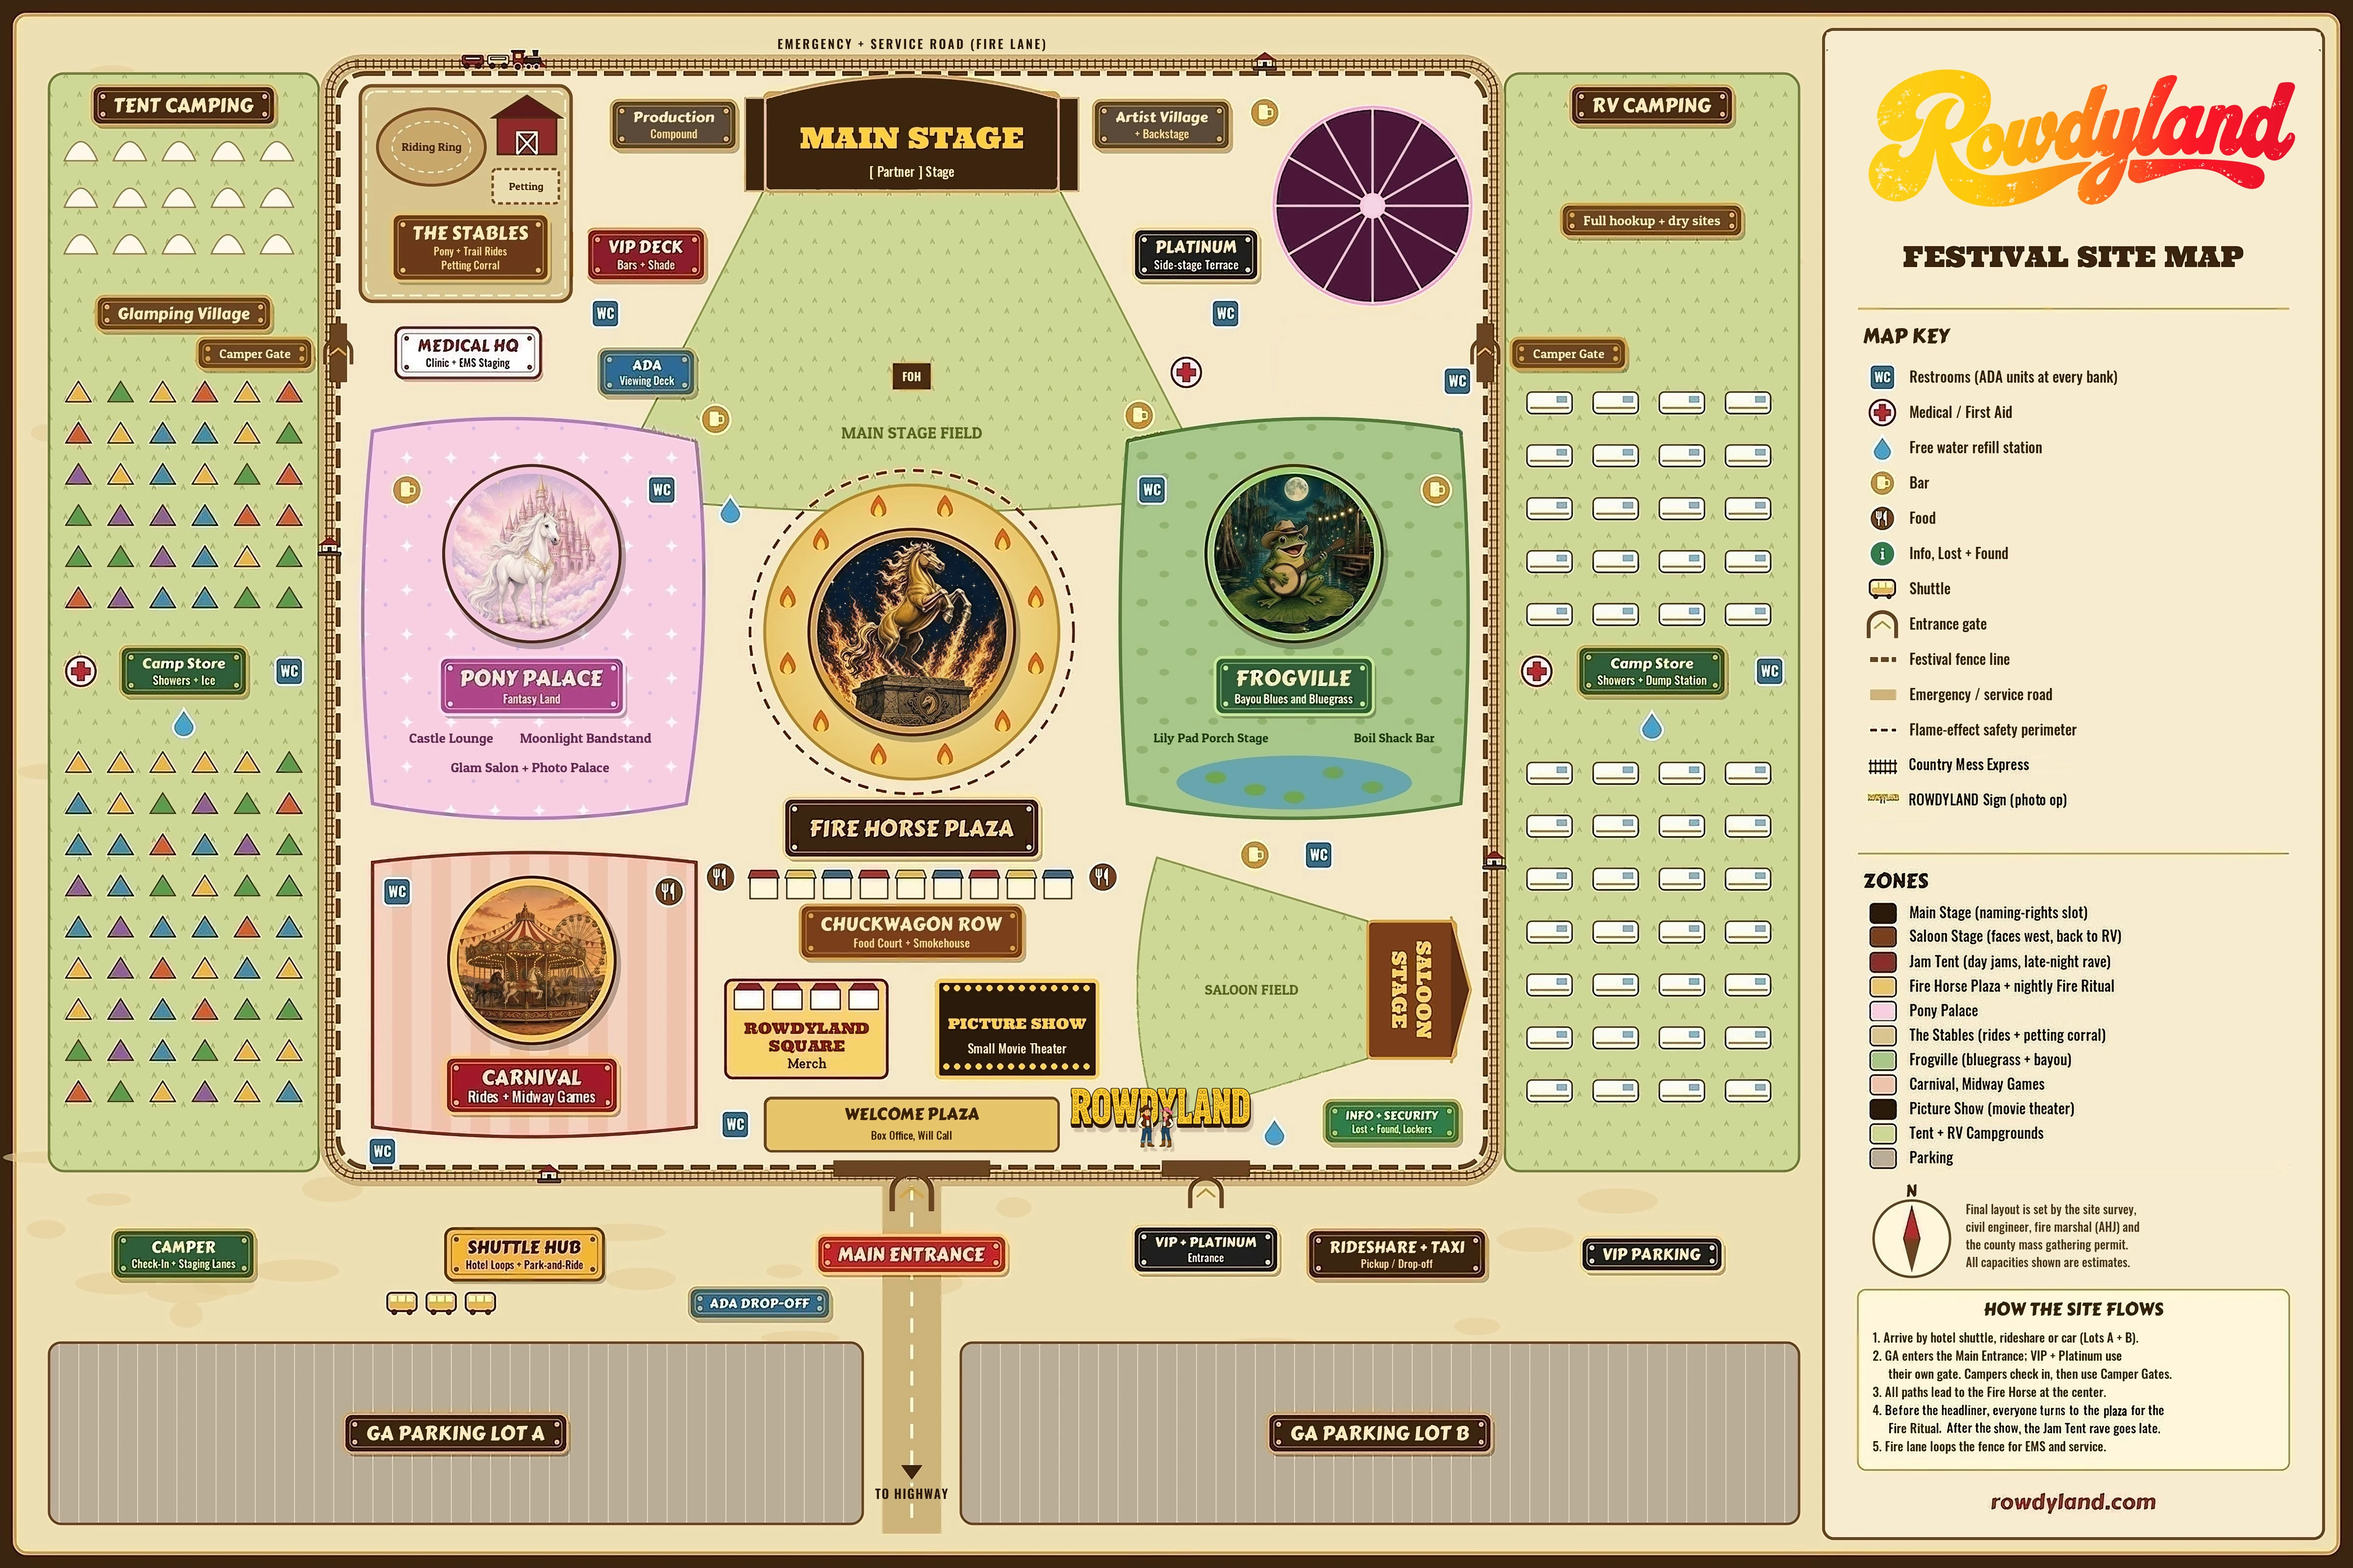
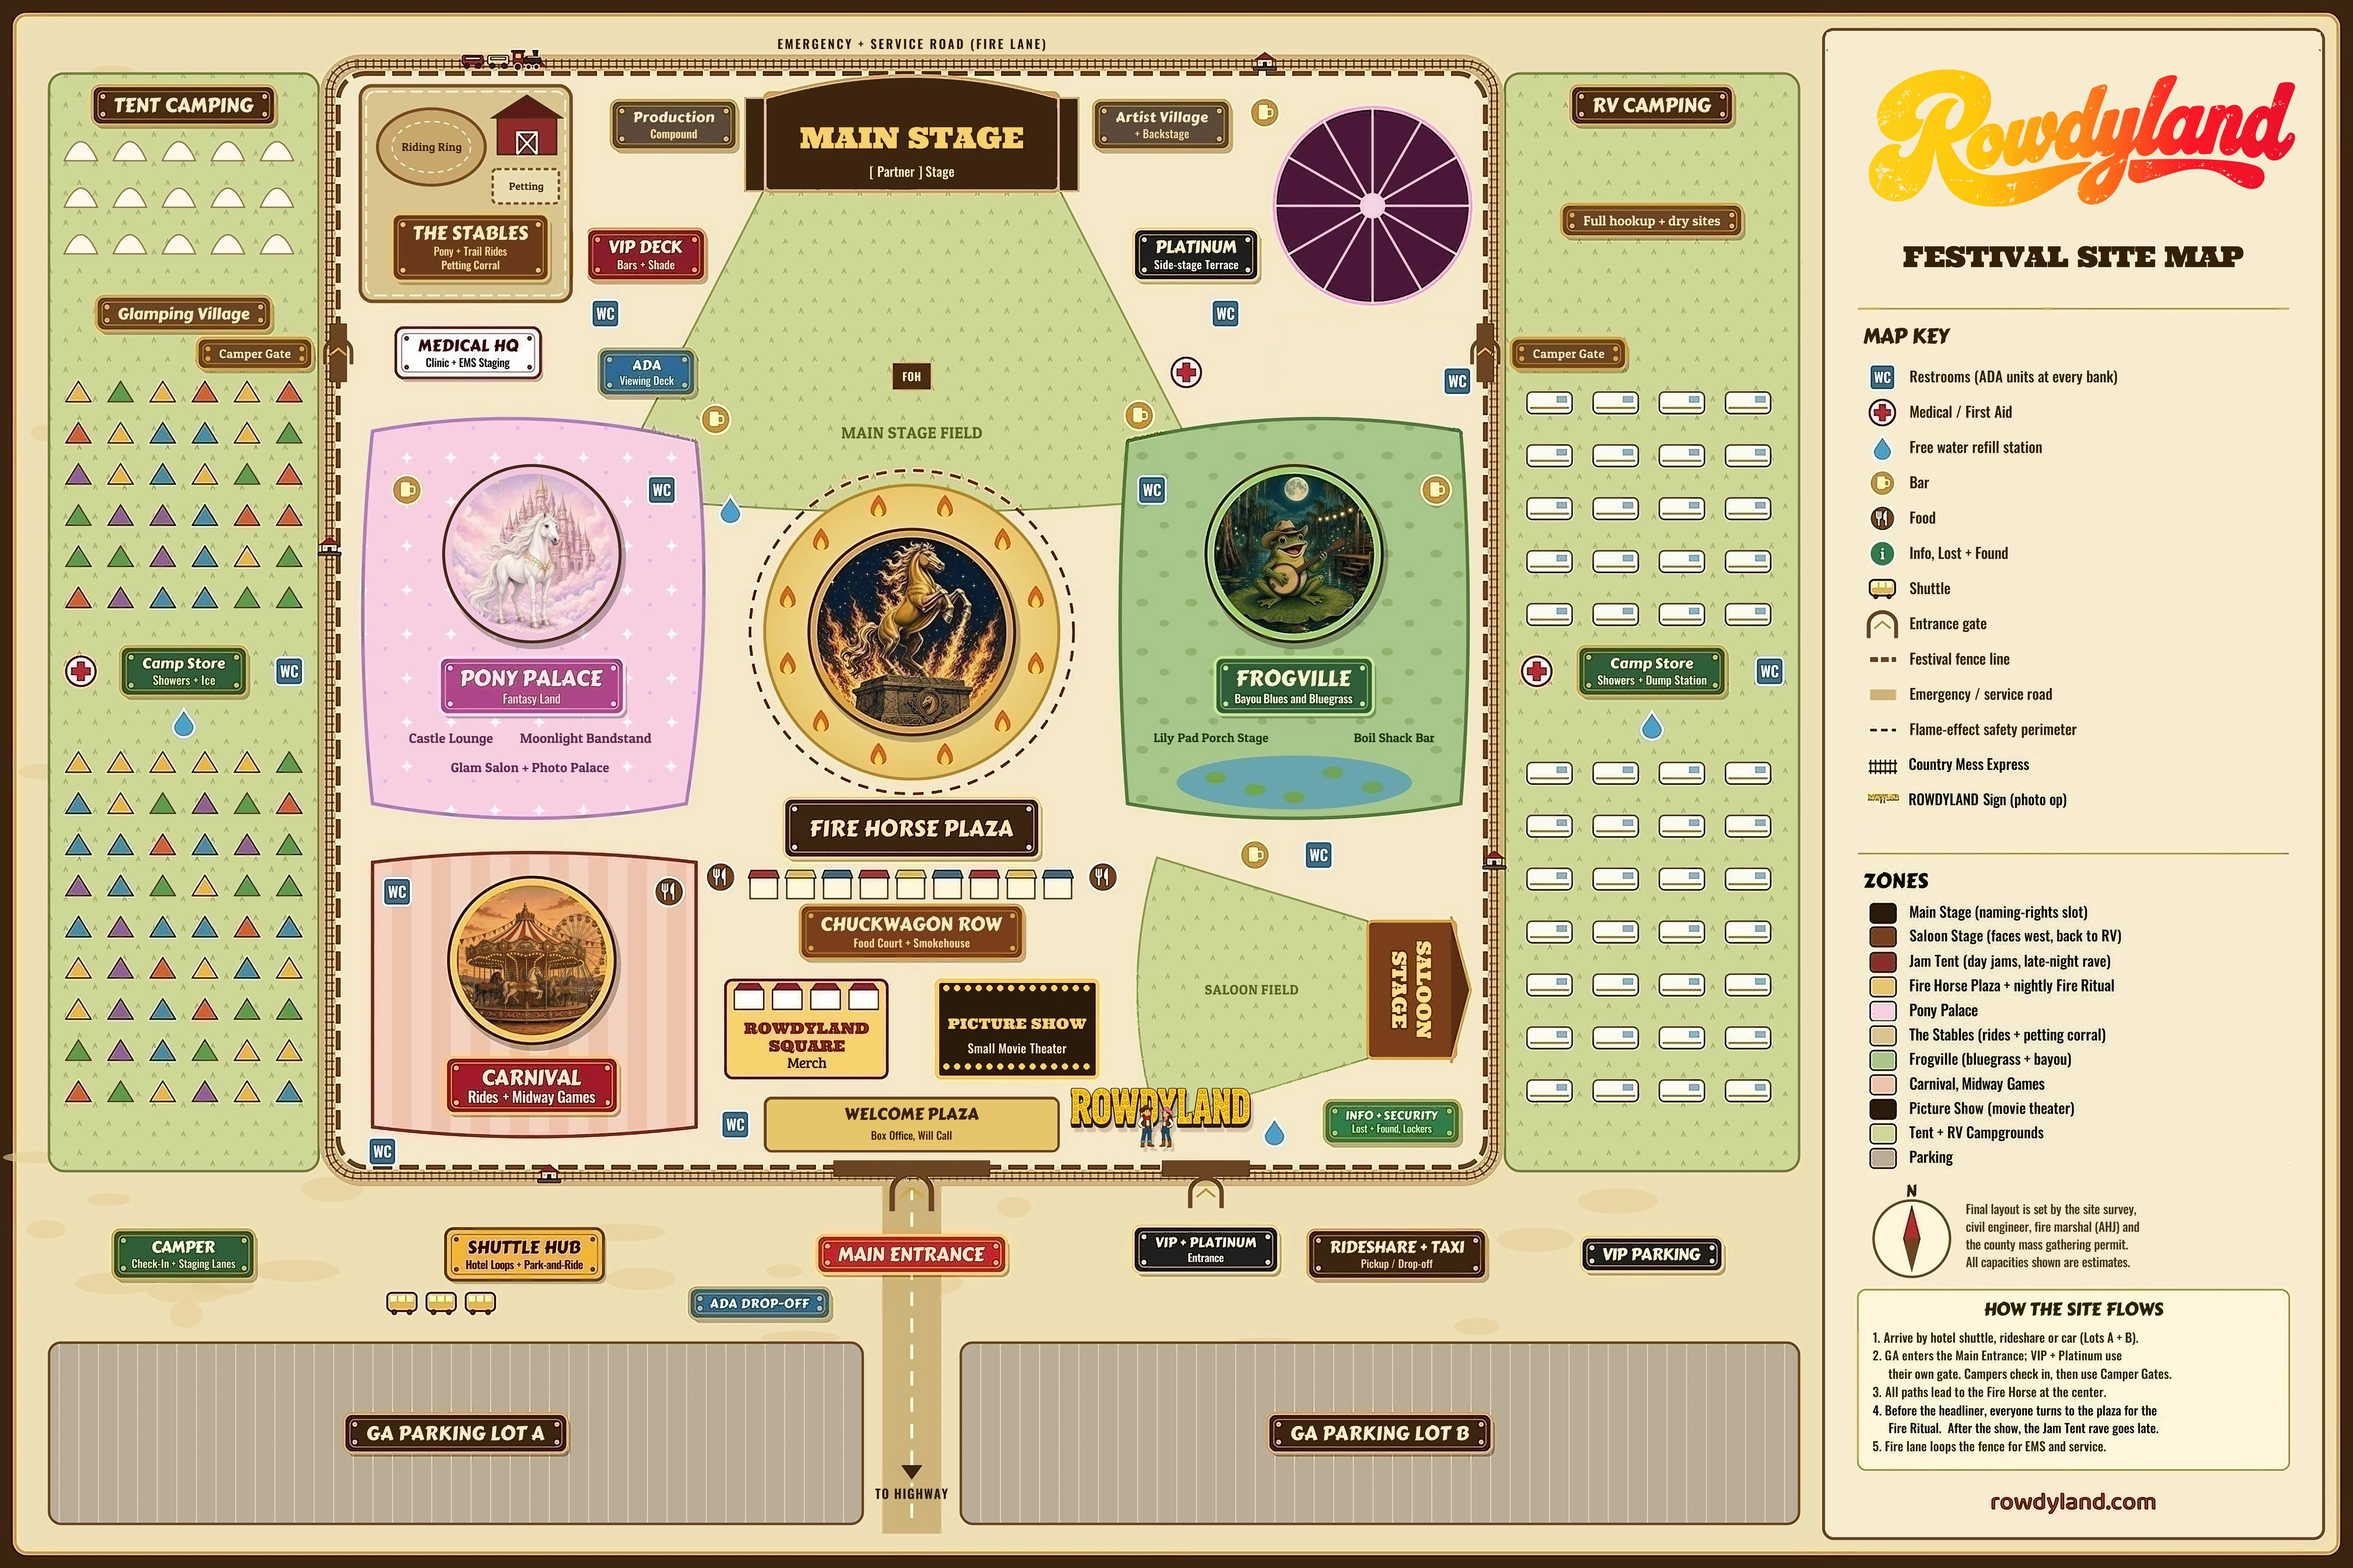
Map maphd4 (preview): retype all baked map text natively at 9600 for even crisp sharpness; redraw WC badges

diff --git a/index.html b/index.html
@@ -129,7 +129,7 @@
         </div>
         <figure>
         <div class="map-frame"><div class="map-zoom"><div class="map-pan">
-          <picture><source srcset="assets/rowdyland-map.webp?v=maphd3" type="image/webp"><img id="mapimg" src="assets/rowdyland-map.jpg?v=maphd3" width="1600" height="1067" decoding="async" loading="eager" alt="Illustrated concept map of the Rowdyland festival grounds, showing the Main Stage, the Saloon Stage in the bottom right corner, The Stables horse area in the top left corner, Pony Palace, camping, and the fire ritual grounds."></picture>
+          <picture><source srcset="assets/rowdyland-map.webp?v=maphd4" type="image/webp"><img id="mapimg" src="assets/rowdyland-map.jpg?v=maphd4" width="1600" height="1067" decoding="async" loading="eager" alt="Illustrated concept map of the Rowdyland festival grounds, showing the Main Stage, the Saloon Stage in the bottom right corner, The Stables horse area in the top left corner, Pony Palace, camping, and the fire ritual grounds."></picture>
             <a class="zone zone-live" href="frogville/" data-zone="frogville" style="left:47.6%;top:26.4%;width:15.4%;height:27.8%"><span class="zone-tip">Frogville: leap inside!</span><span class="sr-only">Enter Frogville</span></a>
             <a class="zone zone-live" href="stables/" data-zone="stables" style="left:15.3%;top:5.4%;width:9.1%;height:13.4%"><span class="zone-tip">The Stables: saddle up!</span><span class="sr-only">Enter The Stables</span></a>
             <a class="zone zone-live" href="main-stage/" data-zone="main-stage" style="left:31.7%;top:4.5%;width:14.2%;height:8%"><span class="zone-tip">Main Stage: get up front!</span><span class="sr-only">Enter the Main Stage</span></a>
@@ -199,6 +199,6 @@
     <footer>
       <p>© 2026 ROWDYLAND™</p>
     </footer>
-  <script>(function(){var V='maphd3',w=document.createElement('canvas').toDataURL('image/webp').indexOf('image/webp')>0,ext=w?'webp':'jpg',xhd=0,cur=0;function swap(u,r){var i=document.getElementById('mapimg');if(!i)return;var n=new Image();n.onload=function(){if(r<cur)return;cur=r;var s=i.parentNode.querySelector('source');if(s)s.srcset=u;i.src=u;};n.src=u;}function hd(){swap('assets/rowdyland-map-hd.'+ext+'?v='+V,1);var p=document.querySelector('.map-pan');if(!p||!window.MutationObserver)return;var mo=new MutationObserver(function(){if(xhd)return;var m=/scale\(([\d.]+)\)/.exec(p.style.transform||''),z=m?parseFloat(m[1]):1;if(p.clientWidth*z*(window.devicePixelRatio||1)>5200){xhd=1;mo.disconnect();swap('assets/rowdyland-map-xhd.'+ext+'?v='+V,2);}});mo.observe(p,{attributes:true,attributeFilter:['style']});}if(document.readyState==='complete')setTimeout(hd,300);else addEventListener('load',function(){setTimeout(hd,300)});})();</script>
+  <script>(function(){var V='maphd4',w=document.createElement('canvas').toDataURL('image/webp').indexOf('image/webp')>0,ext=w?'webp':'jpg',xhd=0,cur=0;function swap(u,r){var i=document.getElementById('mapimg');if(!i)return;var n=new Image();n.onload=function(){if(r<cur)return;cur=r;var s=i.parentNode.querySelector('source');if(s)s.srcset=u;i.src=u;};n.src=u;}function hd(){swap('assets/rowdyland-map-hd.'+ext+'?v='+V,1);var p=document.querySelector('.map-pan');if(!p||!window.MutationObserver)return;var mo=new MutationObserver(function(){if(xhd)return;var m=/scale\(([\d.]+)\)/.exec(p.style.transform||''),z=m?parseFloat(m[1]):1;if(p.clientWidth*z*(window.devicePixelRatio||1)>5200){xhd=1;mo.disconnect();swap('assets/rowdyland-map-xhd.'+ext+'?v='+V,2);}});mo.observe(p,{attributes:true,attributeFilter:['style']});}if(document.readyState==='complete')setTimeout(hd,300);else addEventListener('load',function(){setTimeout(hd,300)});})();</script>
 </body>
 </html>
